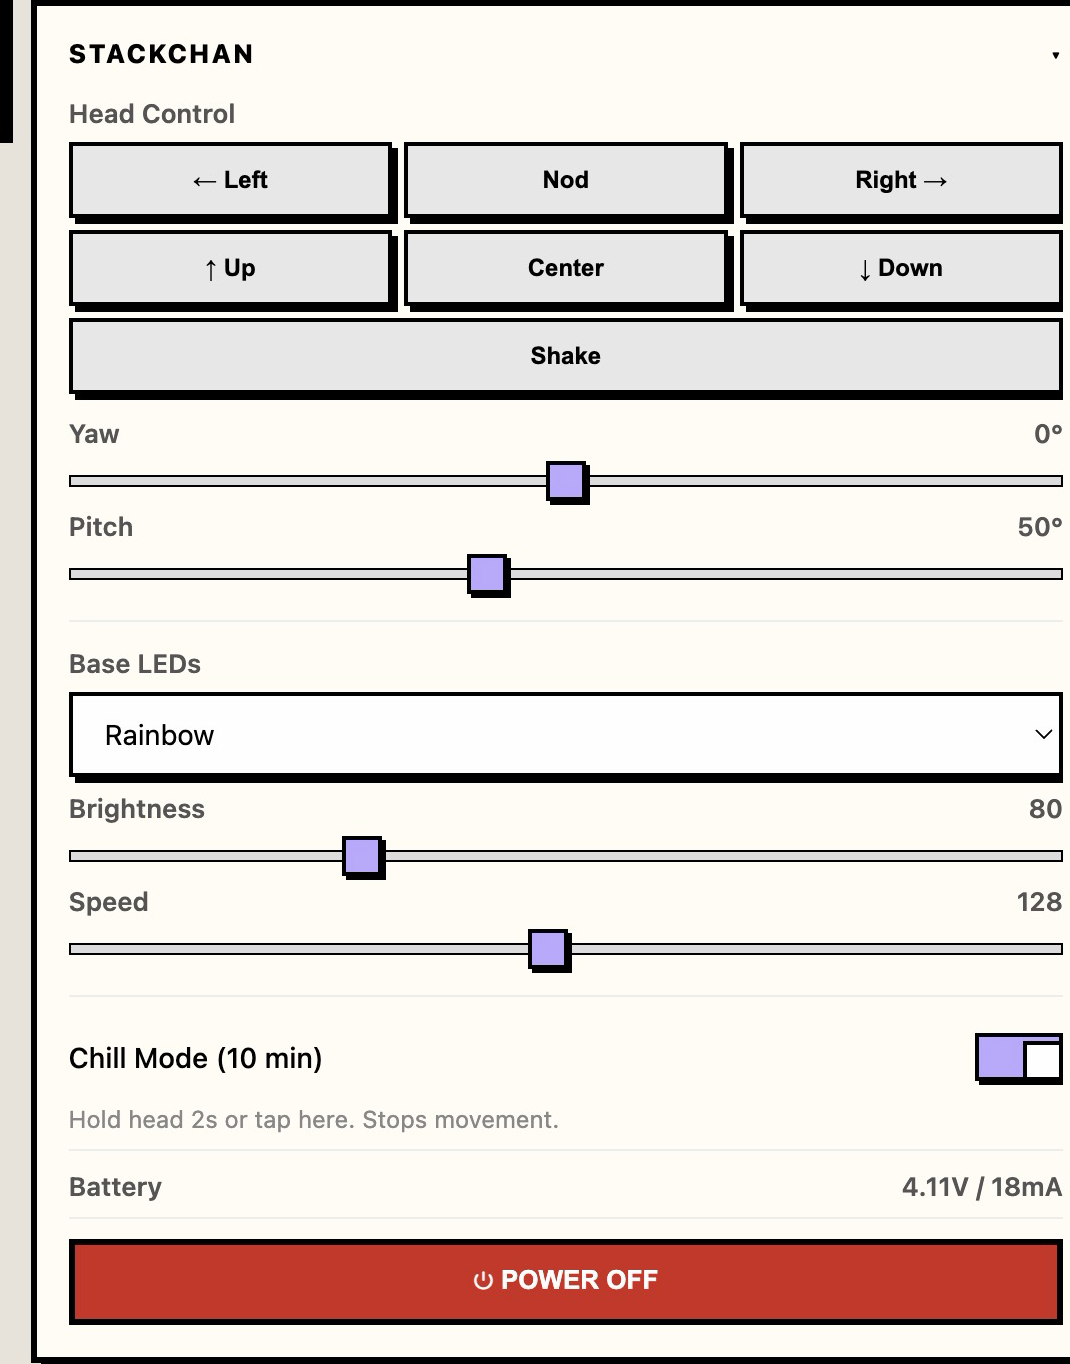
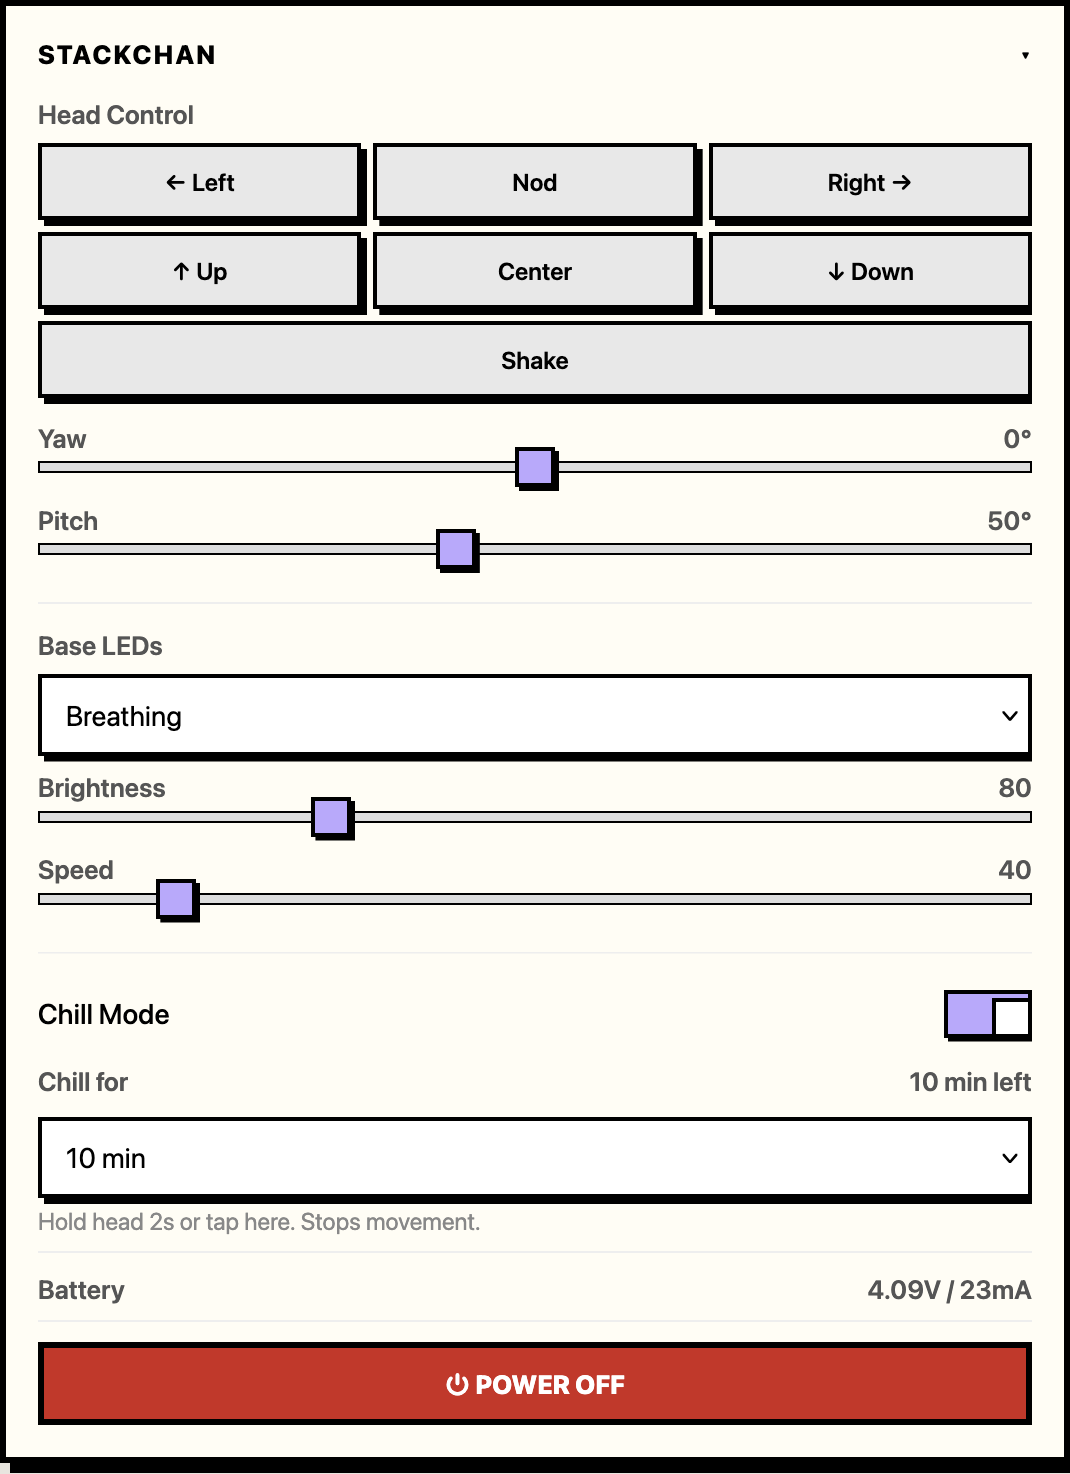
vizBot: new Stackchan web panel shot with Chill for dropdown

Changed region(s): [[0.0, 0.0, 1.0, 1.0]]

diff --git a/client/src/content/vizbot.ts b/client/src/content/vizbot.ts
@@ -599,7 +599,7 @@ export const WEB_SECTIONS: WebSection[] = [
     card: "StackChan",
     shot: W + "web-stackchan.png",
     w: 1070,
-    h: 1364,
+    h: 1474,
     boards: ["stackchan"],
     lead: "Head, base LEDs, chill and power. The card only shows up on a Stackchan.",
     controls: [
